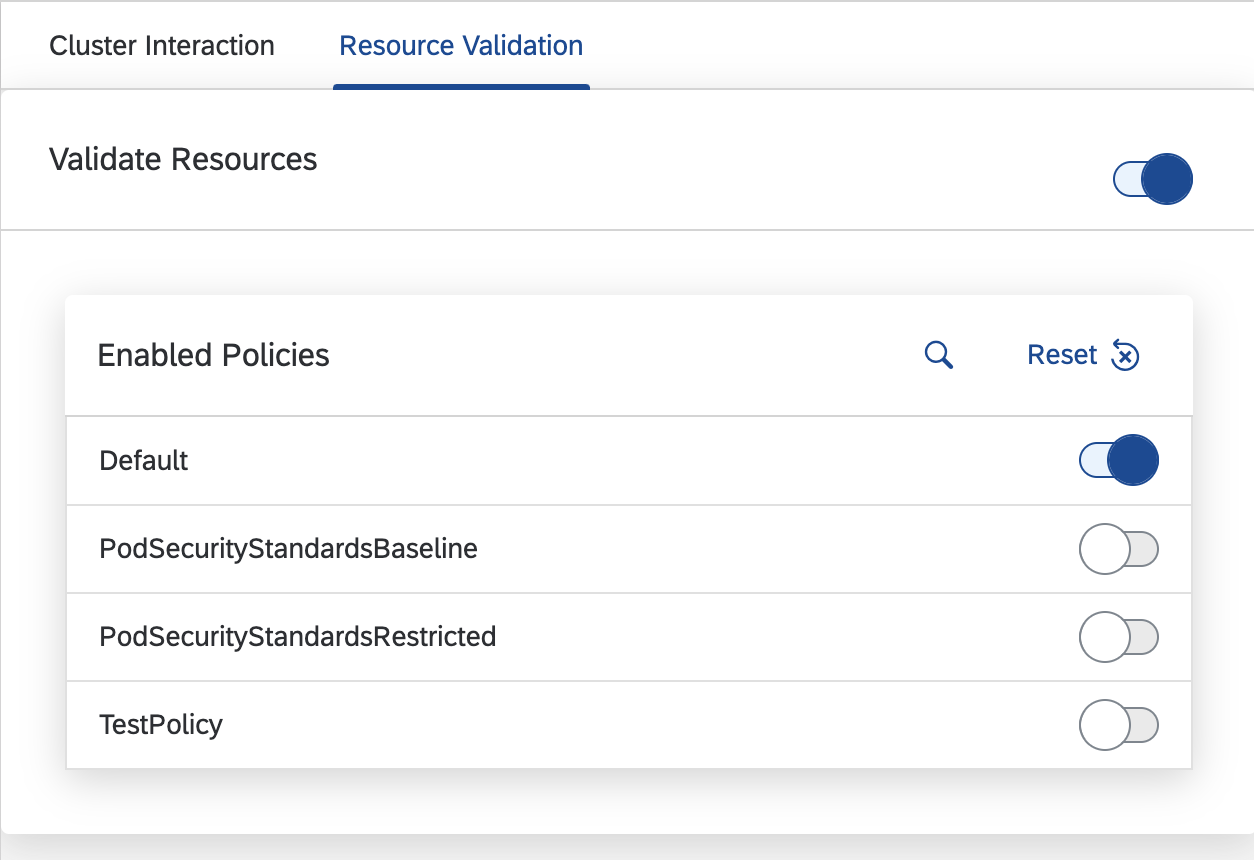
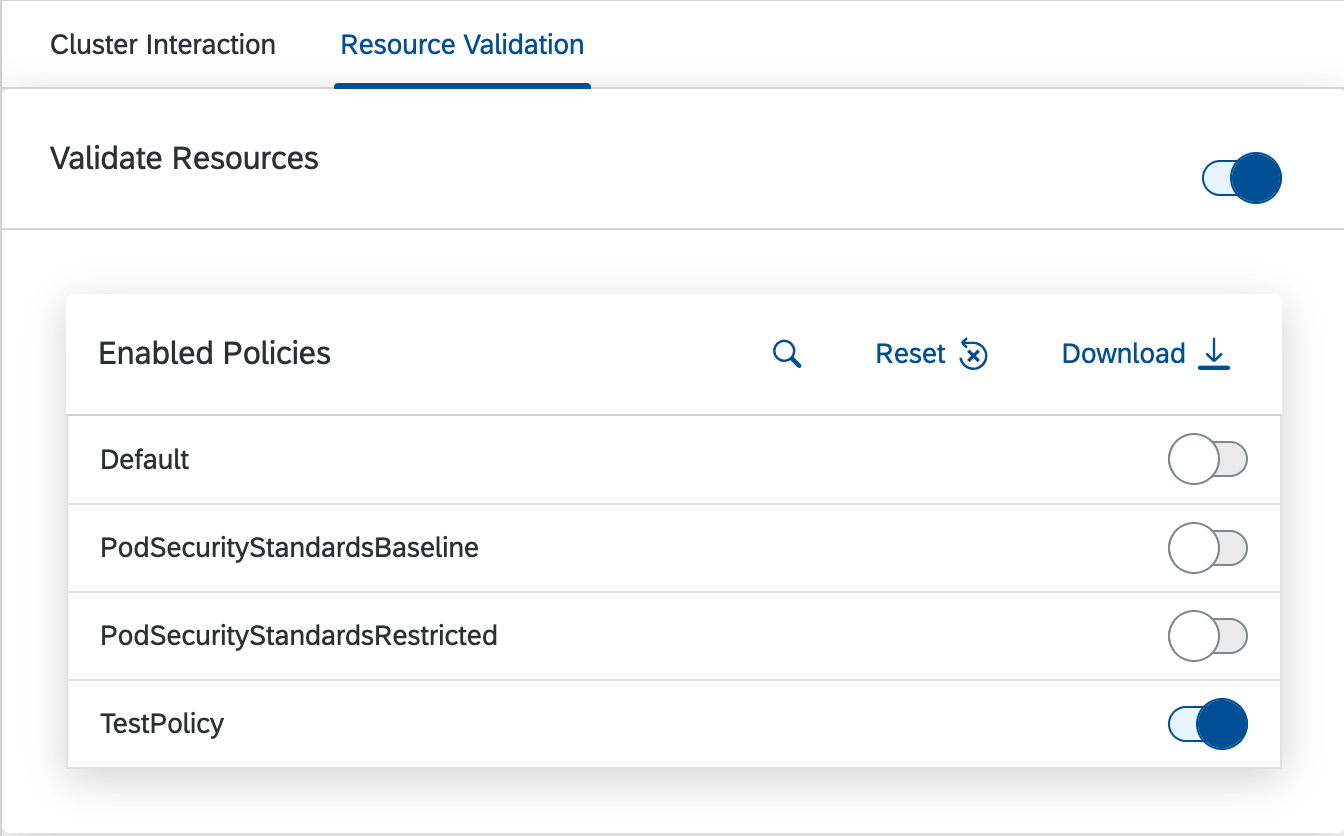
document download, renew image

diff --git a/docs/resource-validation/README.md b/docs/resource-validation/README.md
@@ -56,9 +56,9 @@ Policies can also reference rules in different rule sets as long as they are loa
 
 To see the full specifications, check the [example rule-set](../../examples/resource-validation/rule-set.yaml).
 
-### Alternative Format: Custom Rules
+### Alternative format: Custom Rules
 
-Rules and policies can also be given using [datree's _Custom Rules_](https://hub.datree.io/custom-rules/custom-rules-overview) format as part of a rule set.
+Rules and policies can also be given using [datree's Custom Rules](https://hub.datree.io/custom-rules/custom-rules-overview) format as part of a rule set.
 
 ```yaml
 apiVersion: v1
@@ -86,6 +86,12 @@ customRules:
               enum:
                 - kyma
 ```
+
+## Download policies
+
+You can download the currently enabled policies.
+
+In the user preferences, go to **Clusters > Resource Validation**. Click on **Download** in the **Enabled Policies** section.
 
 ## Scan the cluster
 
